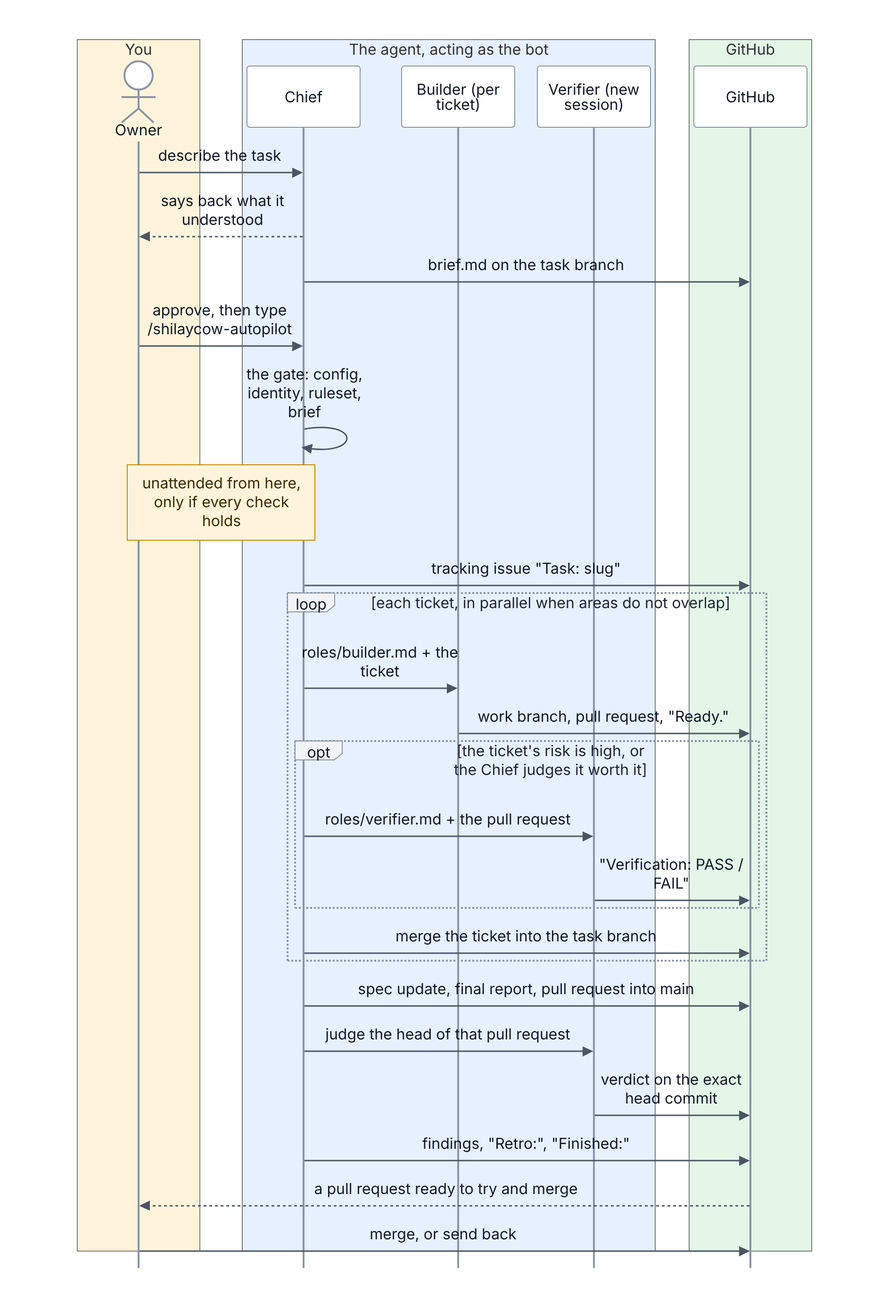
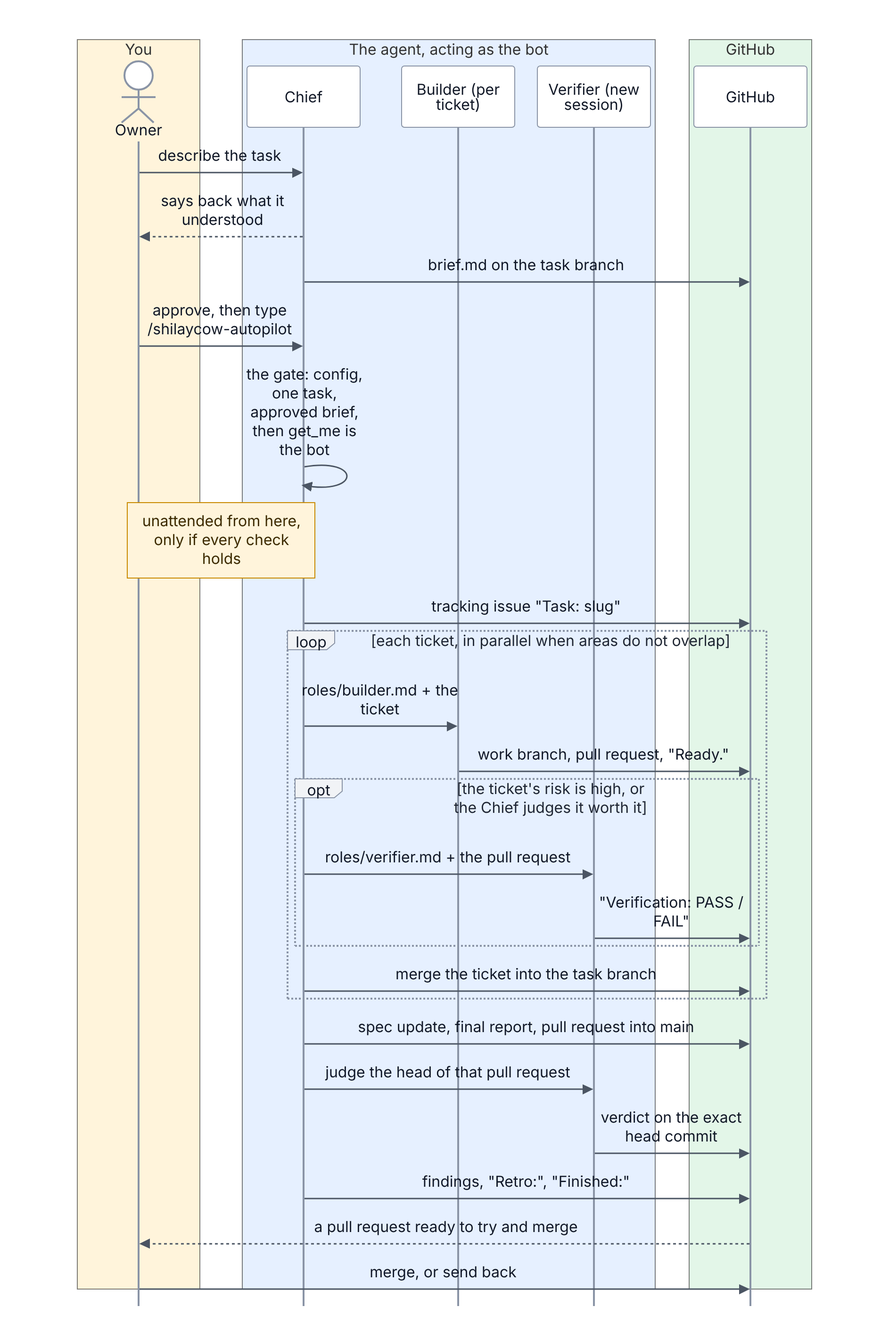
Release v0.4.2

diff --git a/plugin/skills/shilaycow-autopilot/gate.py b/plugin/skills/shilaycow-autopilot/gate.py
@@ -135,6 +135,21 @@ def check_brief(report, brief):
                 report.add("WARN", "brief: absolute wording", f"'{line.strip()[:90]}' -> does a finite check really show this?")
 
 
+def commits_after(trail, token):
+    """The commit on each trail row that carries the token, in order. The commit is the first
+    hash after the token on that row, so a model that put the word and the commit in two cells
+    of one row is still read right."""
+    found = []
+    for row in trail.splitlines():
+        at = row.find(token)
+        if at < 0:
+            continue
+        match = re.search(r"\b([0-9a-f]{7,40})\b", row[at + len(token):])
+        if match:
+            found.append(match.group(1))
+    return found
+
+
 def main(argv):
     args = [a for a in argv if not a.startswith("--")]
     report = Report()
@@ -184,7 +199,8 @@ def main(argv):
         report.add("FAIL", "task", "no unmerged task/<slug> branch -> agree a brief with /shilaycow-chief first")
         return finish(report)
     else:
-        report.add("FAIL", "task", f"several open tasks ({', '.join(open_tasks)}) -> name one: /shilaycow-autopilot <slug>")
+        report.add("FAIL", "task", f"several open tasks ({', '.join(open_tasks)}) -> one task runs at a time: "
+                   "merge or delete all but one")
         return finish(report)
     branch = f"task/{slug}"
     if git("rev-parse", "--verify", "--quiet", f"origin/{branch}") is None:
@@ -209,8 +225,8 @@ def main(argv):
     # than the one approved.
     brief_commit = git("log", "-1", "--format=%h", f"origin/{branch}", "--", f"docs/tasks/{slug}/brief.md") or ""
     trail = git("show", f"origin/{branch}:docs/tasks/{slug}/trail.tsv") or ""
-    approvals = re.findall(rf"{APPROVED_TOKEN}\s+([0-9a-f]{{7,40}})", trail)
-    starts = re.findall(rf"{START_TOKEN}\s+([0-9a-f]{{7,40}})", trail)
+    approvals = commits_after(trail, APPROVED_TOKEN)
+    starts = commits_after(trail, START_TOKEN)
     if not approvals and starts:
         # Grew from: a task started before 0.4.0, which has a start and no approval, and which the
         # plain message below called unapproved.

diff --git a/README.md b/README.md
@@ -16,7 +16,7 @@ Quality comes from checking results (an independent verifier, reading the code, 
 
 **Manual mode** (you call each skill yourself) needs only Claude Code and `git`.
 
-**Auto mode** (`/shilaycow-chief`, then `/shilaycow-autopilot` working unattended) needs all of the following. `/shilaycow-setup` walks you through them, and `/shilaycow-autopilot` checks them before every run and starts nothing until they hold.
+**Auto mode** (`/shilaycow-chief`, then `/shilaycow-autopilot` working unattended) needs all of the following. `/shilaycow-setup` walks you through them and checks them again whenever you run it. Before every run, `/shilaycow-autopilot` checks what can change between runs (auto mode is on, one task, the brief you approved) and confirms it acts as the bot.
 
 | Requirement | Why |
 |---|---|
@@ -25,10 +25,10 @@ Quality comes from checking results (an independent verifier, reading the code, 
 | The ruleset from `shilaycow-setup` active on the default branch | `main` changes only through a pull request you merge |
 | The repository setting **Automatically delete head branches** turned on | a task's and its tickets' branches go once merged; tracking issues close when you merge the task, through `Closes #<n>` |
 | Sessions that act as the bot: in a cloud environment, GitHub connected on claude.ai as the bot account, with the Claude GitHub App installed on the repository; on your own computer, `git` and `gh` logged in as the bot | acting as you would put the agent past the ruleset |
-| Permission for the session to push `task/`, `work/` and `spike/` branches. A cloud session may push only its own `claude/…` branch until you allow more, so say so when you start it | the task's work lives on those branches |
+| Permission for sessions to push `task/`, `work/`, `spike/` and `chore/` branches. `/shilaycow-setup` writes it into your repository's `CLAUDE.md`, which every session reads when it starts; a cloud session otherwise pushes only its own `claude/…` branch. If a session still asks, say so in your first message | the task's work lives on those branches |
 | Network access to `github.com` (installing the skills, `git`) | |
 | Python 3.9 or later in the session | the gate is a Python script |
-| Sessions able to start other sessions, for the independent verifier, and a setup script that installs the skills in every one of them from a source any session can reach, such as the script below. A verifier session carries only the repository it judges, so a script that copies the skills from another repository gives it none; it then stops and says so. Where the agent cannot start sessions, it falls back to a subagent and says so in the report | the verifier must share nothing with whoever built the work |
+| Sessions able to start other sessions, for the independent verifier, and a setup script that installs the skills in every one of them from a source any session can reach, such as the script below. A verifier session carries only the repository it judges, so a script that copies the skills from another repository gives it none; it then stops and says so. Where the agent cannot start a session, it stops and says so: a verifier must never share a session with the work | the verifier must share nothing with whoever built the work |
 
 Not meant for projects with production environments, real users or real data (see Limits).
 
@@ -58,13 +58,13 @@ git clone -q --depth 1 https://github.com/pitaya943/shilaycow.git /tmp/shilaycow
   || echo "shilaycow skills were not installed"
 ```
 
-Every session started in that environment has the skills as `/shilaycow-chief`, `/shilaycow-sharpen`, and so on. A plugin installed on your own computer is not available in cloud sessions, so use the script there. To stay on one version, add `--branch v0.4.1` to the `git clone`.
+Every session started in that environment has the skills as `/shilaycow-chief`, `/shilaycow-sharpen`, and so on. Where this README names a command, a plugin install spells it `/shilaycow:shilaycow-…`. A plugin installed on your own computer is not available in cloud sessions, so use the script there. To stay on one version, add `--branch v0.4.2` to the `git clone`.
 
 **Upgrading from 0.3.x:** version 0.4 is not compatible. Follow the steps in [CHANGELOG.md](CHANGELOG.md) before your next task.
 
 ## Get started
 
-1. **Once per repository**, if you want the agent to work unattended (auto mode): run `/shilaycow-setup`. Without it every skill still works in manual mode, where you call each one yourself. It walks you through the two steps only you can do on github.com (invite a bot account as a Write collaborator, import the ruleset that protects `main`), writes `.shilaycow/config.yml`, and opens a pull request for you to merge.
+1. **Once per repository**, if you want the agent to work unattended (auto mode): run `/shilaycow-setup`. Without it every skill still works in manual mode, where you call each one yourself. It walks you through the three steps only you can do on github.com (invite a bot account as a Write collaborator, import the ruleset that protects `main`, turn on automatic deletion of merged branches), writes `.shilaycow/config.yml`, and opens a pull request for you to merge.
 2. **For every task**, start with `/shilaycow-chief` and describe what you want. Discuss as long as you like; it writes the brief on the task's branch.
 3. **When you approve the brief**, type `/shilaycow-autopilot`. It runs a gate first (auto mode is on, the brief is the version you approved, no other task is open; anything off in the brief's shape is a warning, not a stop), and the agent confirms with its own GitHub tools that it acts as the bot. Nothing starts unless every check holds; if one fails, it tells you what to fix. Nothing else starts the unattended part, whatever you type to the Chief.
 

diff --git a/plugin/skills/shilaycow-autopilot/SKILL.md b/plugin/skills/shilaycow-autopilot/SKILL.md
@@ -18,7 +18,7 @@ From the repository root, run `python3 gate.py [slug]` with the `gate.py` beside
 - **CHECK**: settle each with your GitHub tools, as the line says; one that does not hold is a FAIL. Above all identity: ask your GitHub tools who you are (`get_me`), and if the login is not the config's `bot`, stop and tell the user. Acting as the owner would let you merge into `main` past the ruleset; the script cannot see this, since your own GitHub tools are the only thing that can say which account they act as.
 - **WARN**: the brief's shape is off (a heading, the scenario form, absolute wording). The owner approved it as it is, so go on, and list every WARN in the first line of the tracking issue. Then one judgement the script cannot make: every scenario can be shown by a check that fails today (for one that keeps behaviour unchanged, fails when it is broken), or by a manual step. Where one cannot, say on the tracking issue how you will show it instead, or that it will stay unshown, and carry on.
 
-Only when all of that holds: on a first start, open the tracking issue `Task: <slug>`, add the trail row `autopilot-start <commit>` the gate printed, push it, and say on the issue that the run started at that brief. On a resume, rebuild your picture from the repository and GitHub, not from memory.
+Only when all of that holds: on a first start, open the tracking issue `Task: <slug>`, add the trail row `autopilot-start <commit>` the gate printed, push it, and say on the issue that the run started at that brief. On a resume, rebuild your picture from the repository and GitHub, not from memory; where the gate's CHECK on a changed brief holds (the owner approved the change on the tracking issue), add a new `autopilot-start` row for the brief's current commit, so the next resume does not ask again.
 
 ## The boundary
 
@@ -51,8 +51,10 @@ Delete the `spike/` branches this task opened; their decisions are in the trail.
 
 ## Handing work to others
 
-A builder is a subagent in its own worktree; a verifier is a new session, so it shares nothing with whoever built. Start the verifier with the repository being judged as its source, so it can read the work and post its verdict without asking for access; it gets the skills from the environment's setup script, not from you. Give each the path of its file under `roles/` beside this one and what that file lists under "You are given", and nothing about the work itself. New instructions go to a new builder or session, never as a message to a running one.
+A builder is a subagent in its own worktree, on the branch `work/<slug>/T-<nn>` for its ticket (never a second `task/` branch: the gate would take it for another task); a verifier is a new session, so it shares nothing with whoever built. Start the verifier with the repository being judged as its source, so it can read the work and post its verdict without asking for access; it gets the skills from the environment's setup script, not from you. Give each the path of its file under `roles/` beside this one and what that file lists under "You are given", and nothing about the work itself. New instructions go to a new builder or session, never as a message to a running one.
 
 Nothing wakes you when a session you started finishes. Ask it to send one line to the session that started it when it is done, and set yourself a timed check in case that line never comes; if you can do neither, say so on the tracking issue and stop there instead of waiting forever.
+
+Close every session you start once its work is done: when a verifier has posted its verdict, archive its session with your session tools. When the timed check finds one that has stopped without a verdict, or no longer answers, close it, note its id and what it reached on the tracking issue, and start a new verifier; if that one stops too, open a `needs-owner` issue instead of a third. Remove each builder's worktree once its ticket is merged. Before you post `Finished:`, no session or worktree you started is left; where your tools cannot close a session, list the ones left in `Finished:` for the owner to close.
 
 All roles act as one account. A builder you start as a subagent has no session of its own, so give it `Session: <your session id>/<ticket>` to sign its Ready comment with. Before relying on a PASS, check that its `Session:` is neither yours nor that of any Ready comment on that pull request. If you built the work yourself, post that Ready comment yourself, with your own `Session:` line. Put builders' worktrees under `.shilaycow/worktrees/`, which setup ignores, and add files to a commit by path, never all at once.

diff --git a/ARCHITECTURE.md b/ARCHITECTURE.md
@@ -52,7 +52,7 @@ Every action with a large blast radius (irreversible, external, or costly) gets 
 | Changing settings, rulesets or collaborators | would remove the guard above | the bot has the Write role, not Admin | Server side |
 | Changing CI workflows | could disable required checks | the bot's credentials carry no workflow permission | Server side |
 | Reading or leaking secrets | cannot be taken back | the cloud environment holds no secrets | Configuration |
-| External side effects (deploy, email, paid APIs) | cannot be taken back | the environment's network allows package registries only; no deploy credentials | Configuration |
+| External side effects (deploy, email, paid APIs) | cannot be taken back | the environment's network allows package registries and `github.com` only; no deploy credentials | Configuration |
 | Runaway spending | money and quota | the limits of your Claude plan or API account; a run also ends when a defect survives `fix_rounds` or you say stop | Your account |
 | Touching another session's branch | destroys someone else's work | each session pushes only its own branch; only the Chief merges into the task branch | Written rule |
 
@@ -97,9 +97,9 @@ What the branches look like, with two tickets:
 
 All roles act as the same bot account, so they are told apart by session: every `Ready.` and every verdict carries a `Session:` line, and the Chief rejects a `PASS` whose session matches the Chief's own or any builder's.
 
-<p align="center"><img src="assets/diagrams/04-roles.png" width="943" alt="Roles over time. You describe the task; the Chief says back what it understood and writes brief.md on the task branch. You approve it and type /shilaycow-autopilot, which runs a gate checking the config, the bot identity, the ruleset and the brief; only if every check holds does the run go on unattended. The Chief opens a tracking issue, then for each ticket gives a builder its role file and the ticket; the builder pushes a work branch, opens a pull request and posts Ready. When the ticket's risk is high, or the Chief judges it worth it, a verifier judges that pull request. The Chief merges each ticket into the task branch, then updates the spec, writes the final report and opens the pull request into main, which a verifier judges on its exact head commit. The Chief posts findings, Retro and Finished, and you merge or send it back."></p>
+<p align="center"><img src="assets/diagrams/04-roles.png" width="943" alt="Roles over time. You describe the task; the Chief says back what it understood and writes brief.md on the task branch. You approve it and type /shilaycow-autopilot, which runs a gate checking the config, that one task is open and the brief is the one you approved, and has the agent confirm with its own GitHub tools that it acts as the bot; only then does the run go on unattended. The Chief opens a tracking issue, then for each ticket gives a builder its role file and the ticket; the builder pushes a work branch, opens a pull request and posts Ready. When the ticket's risk is high, or the Chief judges it worth it, a verifier judges that pull request. The Chief merges each ticket into the task branch, then updates the spec, writes the final report and opens the pull request into main, which a verifier judges on its exact head commit. The Chief posts findings, Retro and Finished, and you merge or send it back."></p>
 
-The builder never starts its own verifier: whoever is being judged does not write the judge's instructions.
+The builder never starts its own verifier: whoever is being judged does not write the judge's instructions. Every session the Chief starts is closed once its work is done, including one that stopped or stopped answering; a run leaves no session or worktree behind.
 
 ---
 
@@ -270,7 +270,6 @@ owner: example-owner
 bot: example-bot              # may be empty in manual mode
 mode: auto                    # manual | auto
 test_command: ""              # your test command, if any
-parallel_builders: 2
 fix_rounds: 2
 ```
 

diff --git a/plugin/skills/shilaycow-setup/SKILL.md b/plugin/skills/shilaycow-setup/SKILL.md
@@ -1,6 +1,6 @@
 ---
 name: shilaycow-setup
-description: Use once per repository to make GitHub itself keep agents out of main and to write the shilaycow config, or again at any time to check that the real settings still match. Works in a cloud session acting as the bot, where the owner does two steps by hand, or in a local session with the owner's gh.
+description: Use once per repository to make GitHub itself keep agents out of main and to write the shilaycow config, or again at any time to check that the real settings still match. Works in a cloud session acting as the bot, where the owner does three steps by hand, or in a local session with the owner's gh.
 ---
 
 # Setup
@@ -15,7 +15,7 @@ A GitHub repository and its owner in the conversation. Ask one question at a tim
 
 First find out who you are on GitHub, because that decides who does what:
 
-- **You act as the bot** (the usual case in a cloud session). You cannot change repository settings, and that is the point of the boundary. The owner does the two privileged steps by hand on github.com; you do everything else and check the result.
+- **You act as the bot** (the usual case in a cloud session). You cannot change repository settings, and that is the point of the boundary. The owner does the three privileged steps by hand on github.com; you do everything else and check the result.
 - **You act as the owner with admin rights** (a local session with the owner's `gh`). You can do all of it yourself.
 
 ## Done when
@@ -25,8 +25,8 @@ All of these hold, and you have shown the owner what you checked:
 1. The bot account is a collaborator with the Write role, not Admin.
 2. A ruleset on the default branch requires a pull request with one approval, dismisses stale approvals on push, and blocks force pushes and deletion. The only bypass is the repository admin role, for pull requests only: the owner can merge their own pull request without a second approver, and nobody can push to the branch directly. `ruleset.json` beside this file is that ruleset.
 3. The repository setting **Automatically delete head branches** is on, so a branch goes once its pull request is merged. Where your GitHub tools do not show the setting, the owner confirms it.
-4. `.shilaycow/config.yml` exists with `owner`, `bot`, `mode: auto`, `test_command`, `parallel_builders`, `fix_rounds`.
-5. `AGENTS.md` has a section pointing at `.shilaycow/`, naming the branch classes (`task/`, `work/`, `spike/`) and saying only the owner merges `main`; `.gitignore` ignores `.shilaycow/worktrees/`, where builders work.
+4. `.shilaycow/config.yml` exists with `owner`, `bot`, `mode: auto`, `test_command`, `fix_rounds`.
+5. `CLAUDE.md`, which sessions read when they start, has a section pointing at `.shilaycow/` and saying, as the owner's standing permission: agents may create and push `task/`, `work/`, `spike/` and `chore/` branches and the setup branch, never push to `main`, and only the owner merges it. Where the project keeps its rules in `AGENTS.md`, the section goes there and `CLAUDE.md` imports it with a line `@AGENTS.md`; `.gitignore` ignores `.shilaycow/worktrees/`, where builders work.
 6. Items 4 and 5 are on a branch with a pull request open, not pushed to `main`; the labels `needs-owner` and `later` exist on the repository (the bot's Write role can create them).
 7. The owner has a cloud environment whose setup script is `install-skills.sh` beside this file, and knows to start this project's sessions in it. A repository's own plugin settings are not loaded in cloud sessions.
 

diff --git a/plugin/skills/shilaycow-plan/SKILL.md b/plugin/skills/shilaycow-plan/SKILL.md
@@ -17,7 +17,7 @@ The work is cut into pieces someone else could pick up cold, every scenario in t
 
 ## How
 
-None of this is required; it is what tends to help. Vertical slices work better than layers: when a piece is done, a scenario or part of one can be driven end to end. Say for each piece which scenarios it serves, what it depends on and which areas it touches, so pieces that share nothing can run at once. Size a piece so one session can finish it, and give it a `Risk:` line (`shilaycow-blast-radius`). Work the Chief will do itself is a ticket too, with its own level. Put shared groundwork first. If the project has no `try-<app>` skill yet, the first ticket that leaves something runnable ends by creating it with `shilaycow-try-it`; it cannot be written before there is an app to start.
+None of this is required; it is what tends to help. Vertical slices work better than layers: when a piece is done, a scenario or part of one can be driven end to end. Say for each piece which scenarios it serves, what it depends on and which areas it touches, so pieces that share nothing can run at once. Size a piece so one session can finish it. Whatever form a ticket takes, it has a `Status:` line (`open` or `done`; the builder sets it) and a `Risk:` line (`shilaycow-blast-radius`). Work the Chief will do itself is a ticket too, with its own level. Put shared groundwork first. If the project has no `try-<app>` skill yet, the first ticket that leaves something runnable ends by creating it with `shilaycow-try-it`; it cannot be written before there is an app to start.
 
 Write each ticket's check so that it fails every time without the change, never by timing or luck, and can actually be met: run it against the code as it is and see it fail before you hand the ticket over. A ticket meant to keep behaviour as it is (a refactor, an implementation swapped behind the same interface) has nothing to fail today: its check must fail when that behaviour is broken, so break it in a throwaway copy, see the check fail, and restore it. A check that already passes for a ticket meant to change behaviour, or that nothing could satisfy, is the plan's mistake, and the builder will lose time finding that out. A check guards the ticket only once; where it holds a property a later change could undo (one place for a value, an order, a limit), the ticket also adds a test of it to the suite, so the next task runs it too. Read the pitfalls and shape tickets to avoid them. A ticket that changes how a user starts or uses the product updates `try-<app>` in the same ticket, so the next verification still exercises everything.
 

diff --git a/CHANGELOG.md b/CHANGELOG.md
@@ -1,5 +1,12 @@
 # Changelog
 
+## 0.4.2
+
+- **Branch permission is set once.** `/shilaycow-setup` writes into your repository's `CLAUDE.md` that agents may push `task/`, `work/`, `spike/` and `chore/` branches and never `main`, so you no longer grant it at the start of each session. Projects set up before: run `/shilaycow-setup` again to add it.
+- Fixes from a review of the whole toolkit: builders work on `work/<slug>/T-<nn>` branches, named now, so a resume never takes one for a second task; the gate tells you to merge or drop extra open tasks; an approval row keeps its word and commit in one cell; a resume after an approved brief change records a new start and does not ask again; tickets carry `Status:` and `Risk:` lines; the README describes what the gate checks each run and what setup checks.
+- `parallel_builders` is gone from the config: how many builders run at once is the Chief's call. An existing key is ignored.
+- **A run leaves no session behind.** Each verifier session is closed once it has posted its verdict; one that stops without a verdict or stops answering is closed and replaced once, then reported to you. Builders' worktrees are removed once their tickets merge.
+
 ## 0.4.1
 
 - **English only.** Briefs, specs, reports and verdicts are written in English, whatever language you talk in; `report_language` is gone from the config. To use another language, fork the skills and change them.

diff --git a/plugin/skills/shilaycow-trail/SKILL.md b/plugin/skills/shilaycow-trail/SKILL.md
@@ -15,7 +15,7 @@ The decision you just made, and where its evidence is.
 
 `docs/tasks/<slug>/trail.tsv` has a row for every point where another reasonable person might have chosen differently: above all an assumption made in place of a question, and anything the owner would be surprised to learn only afterwards.
 
-Each row says what was decided, why in plain words, and where the evidence is: a pointer (commit, pull request, `file:line`), never a paragraph. With a timestamp and who decided. The file's first line is a header naming its columns; the first writer chooses them, and every row after follows that header, whoever writes it. Take timestamps from the clock (`date -u +%Y-%m-%dT%H:%MZ`), never write them by hand.
+Each row says what was decided, why in plain words, and where the evidence is: a pointer (commit, pull request, `file:line`), never a paragraph. With a timestamp and who decided. The file's first line is a header naming its columns; the first writer chooses them, and every row after follows that header, whoever writes it. Take timestamps from the clock (`date -u +%Y-%m-%dT%H:%MZ`), never write them by hand. A row the gate reads, `brief-approved <commit>` or `autopilot-start <commit>`, keeps the word and its commit together in one cell, with nothing between.
 
 ## How
 

diff --git a/plugin/skills/shilaycow-chief/SKILL.md b/plugin/skills/shilaycow-chief/SKILL.md
@@ -16,7 +16,7 @@ The user's request. `.shilaycow/config.yml` on the default branch. `docs/spec/`,
 
 - `task/<slug>` exists on the remote, and `docs/tasks/<slug>/brief.md` on it has every heading `shilaycow-sharpen` names, the scenarios approved by the user; with a design too, if you designed together.
 - The trail has a `brief-approved <commit>` row for the commit that last changed `brief.md`.
-- You told the user the one way to start: type `/shilaycow-autopilot` (with the slug, if more than one task is open). Nothing runs unattended before that.
+- You told the user the one way to start: type `/shilaycow-autopilot` (`/shilaycow:shilaycow-autopilot` where the skills are installed as a plugin). Nothing runs unattended before that.
 
 ## How
 
